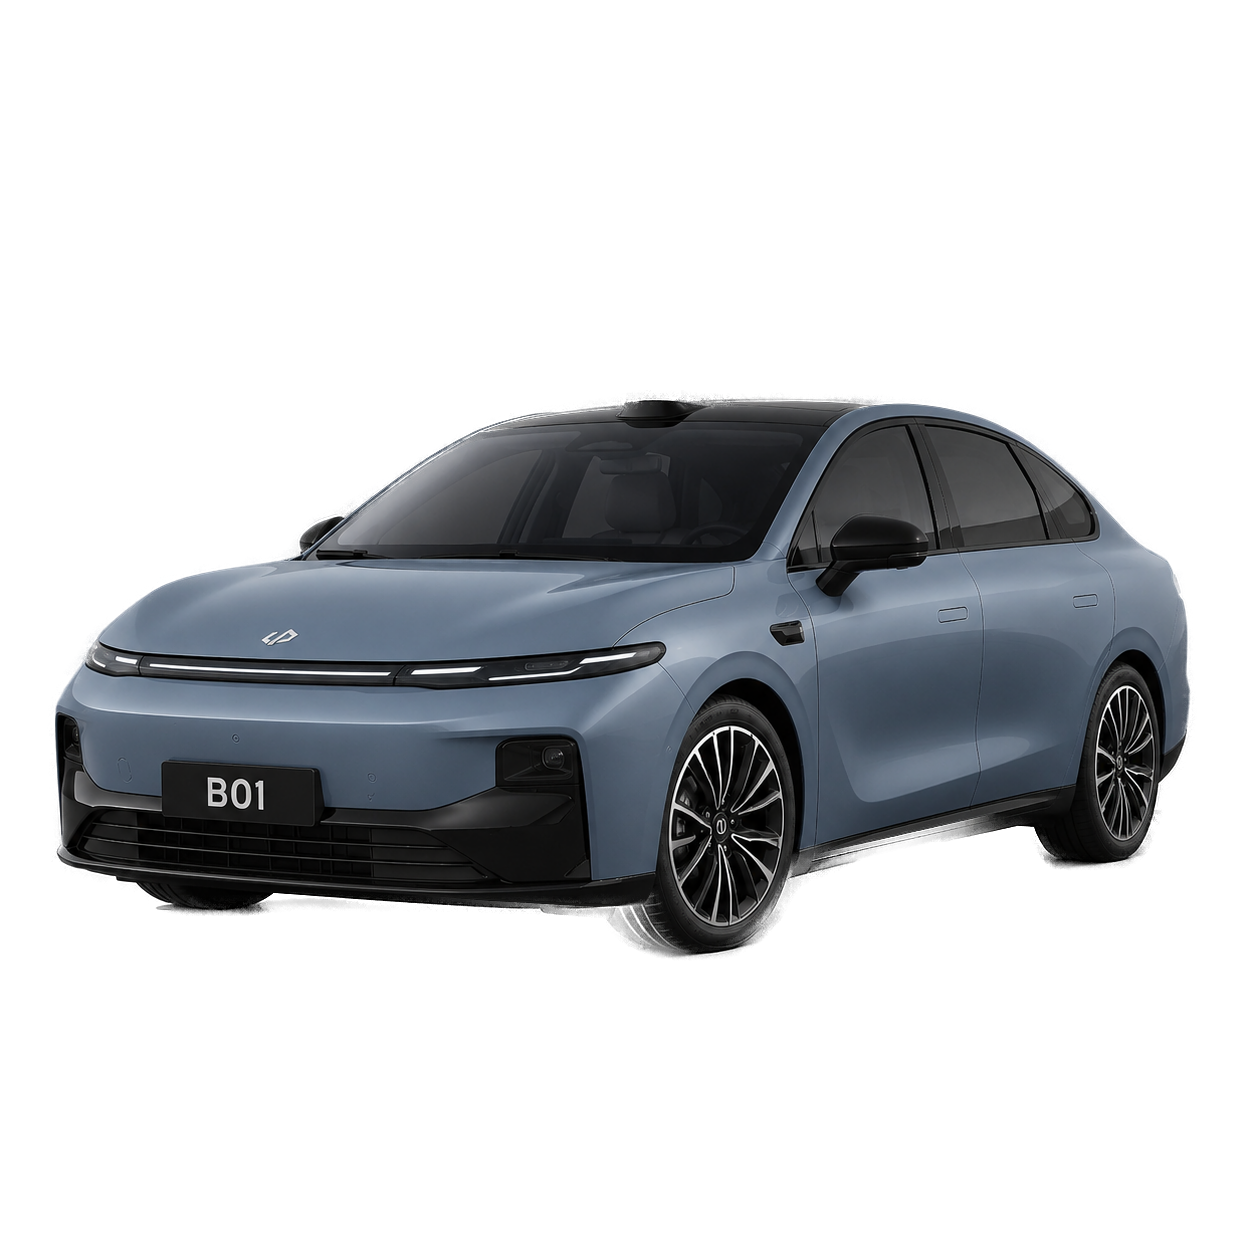
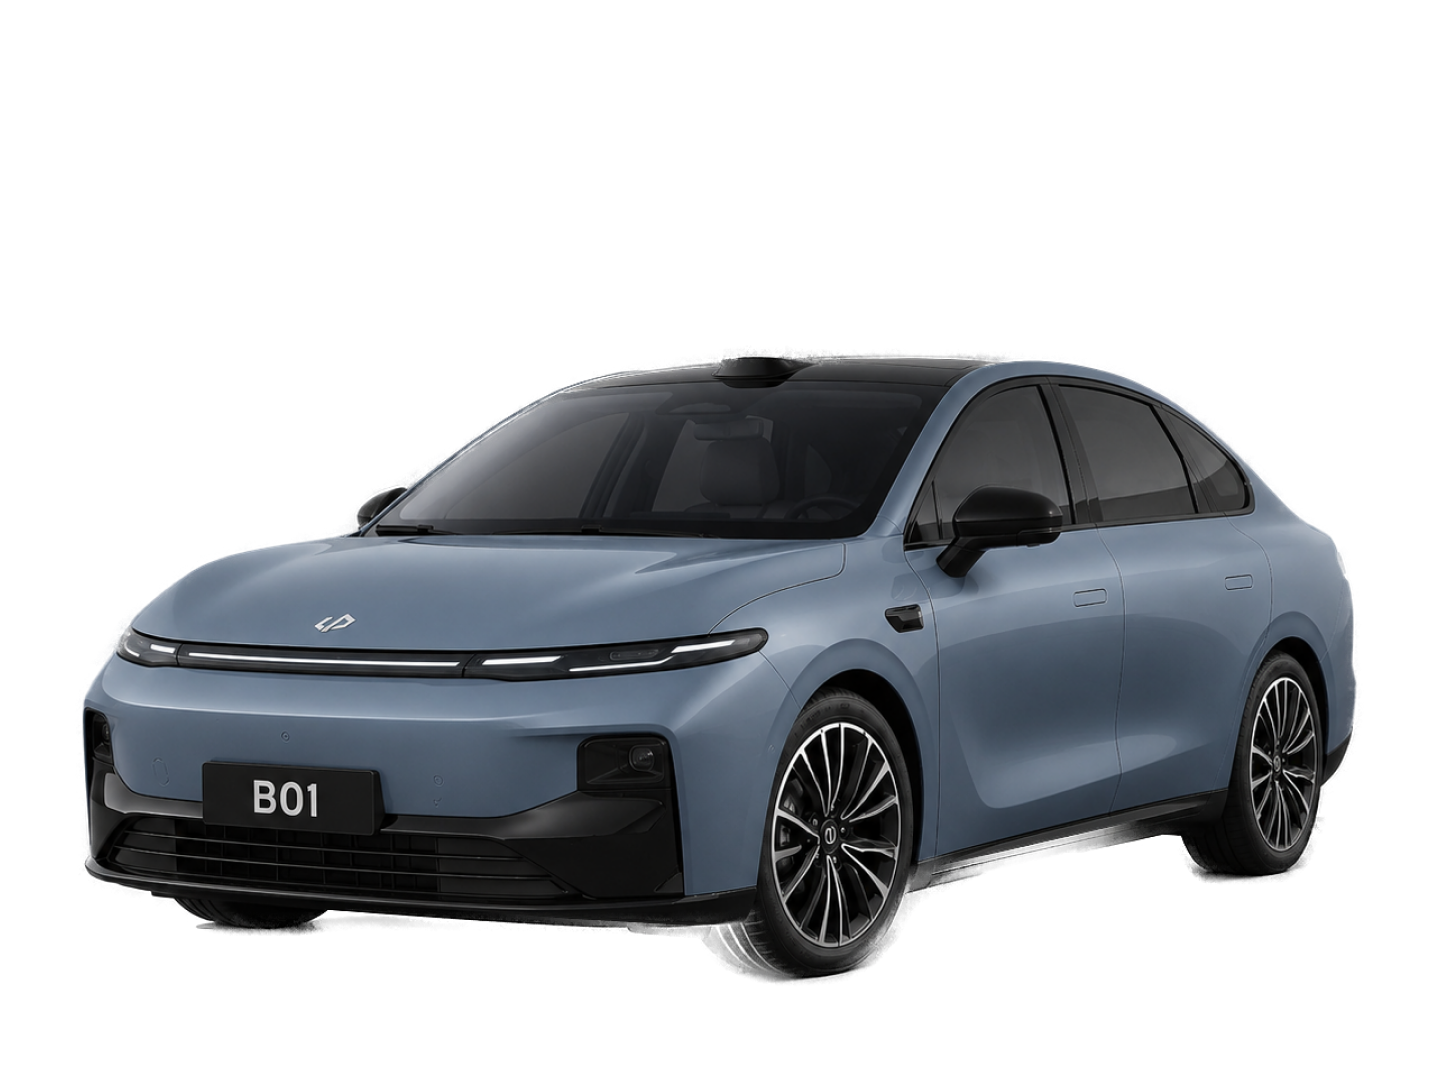
chore: updated images to suit UI

diff --git a/components/Home/PhaseThreeGallery.vue b/components/Home/PhaseThreeGallery.vue
@@ -37,7 +37,7 @@
               :style="{ '--panel-accent': activeVehicle.accent }"
             >
               <span
-                class="pointer-events-none absolute left-0 top-1 z-0 select-none font-elemental text-[6rem] leading-none text-white/[0.045] sm:text-[9rem] lg:text-[13rem]"
+                class="pointer-events-none absolute left-0 top-1 z-0 select-none font-elemental text-[6rem] leading-none text-white/4.5 sm:text-[9rem] lg:text-[13rem]"
               >
                 {{ activeVehicle.indexLabel }}
               </span>
@@ -154,7 +154,7 @@ const formatIndex = (index: number) => String(index + 1).padStart(2, '0');
 // scripts/remove_bg_showcase.py. These transparent PNGs suit the dark showroom
 // stage far better than the catalogue photos, which carry their own backgrounds.
 const showcaseImages: Record<string, string> = {
-  'E-Bus': '/showcase/Bus1.png',
+  'E-Bus': '/showcase/bus.png',
   'Hongqi E-QM5': '/showcase/hongqi2.png',
   'Xiaomi SU7': '/showcase/xiaomi_su7_2.png',
   'Leapmotor B01': '/showcase/leanmotors_b01_1.png',
